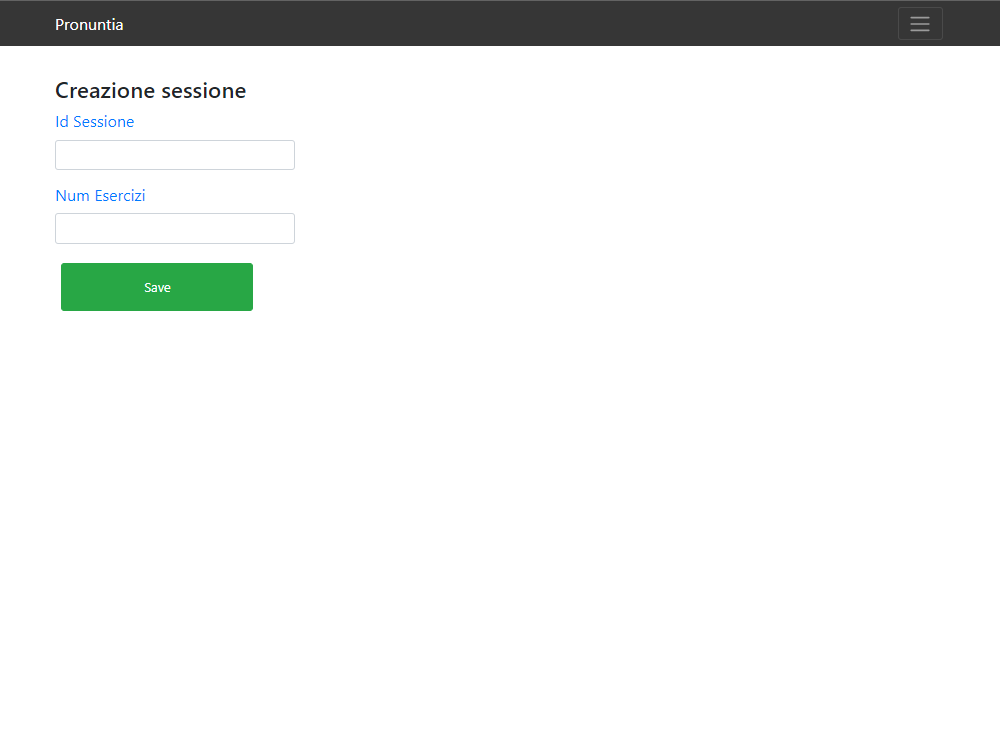
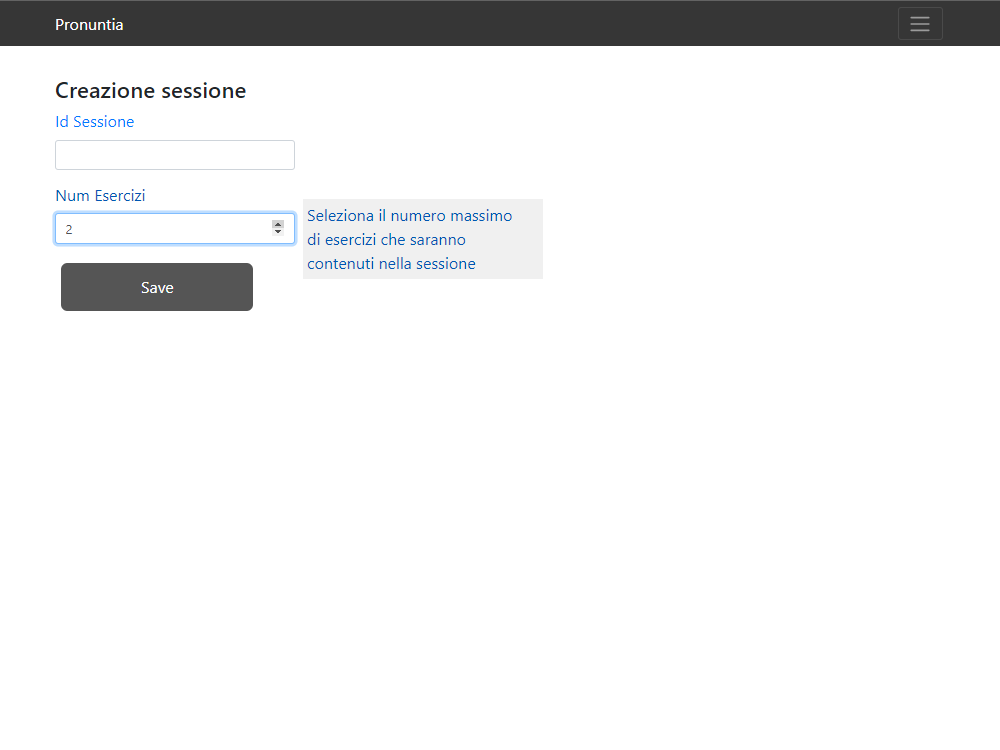
crea sess

Changed region(s): [[0.031, 0.2453, 0.527, 0.4293]]

diff --git a/views/gestione-esercizi/_form-sessione.php b/views/gestione-esercizi/_form-sessione.php
@@ -16,6 +16,14 @@ use yii\widgets\ActiveForm;
 
     }
 
+    .btn{
+        border-radius: 8px;
+        border: 2px ;
+        padding: 15px;
+        text-align: center;
+        background-color: #555555;    
+        font-size: 20px;
+    }
     .center {
         margin: 30 auto;
         margin-left: auto;
